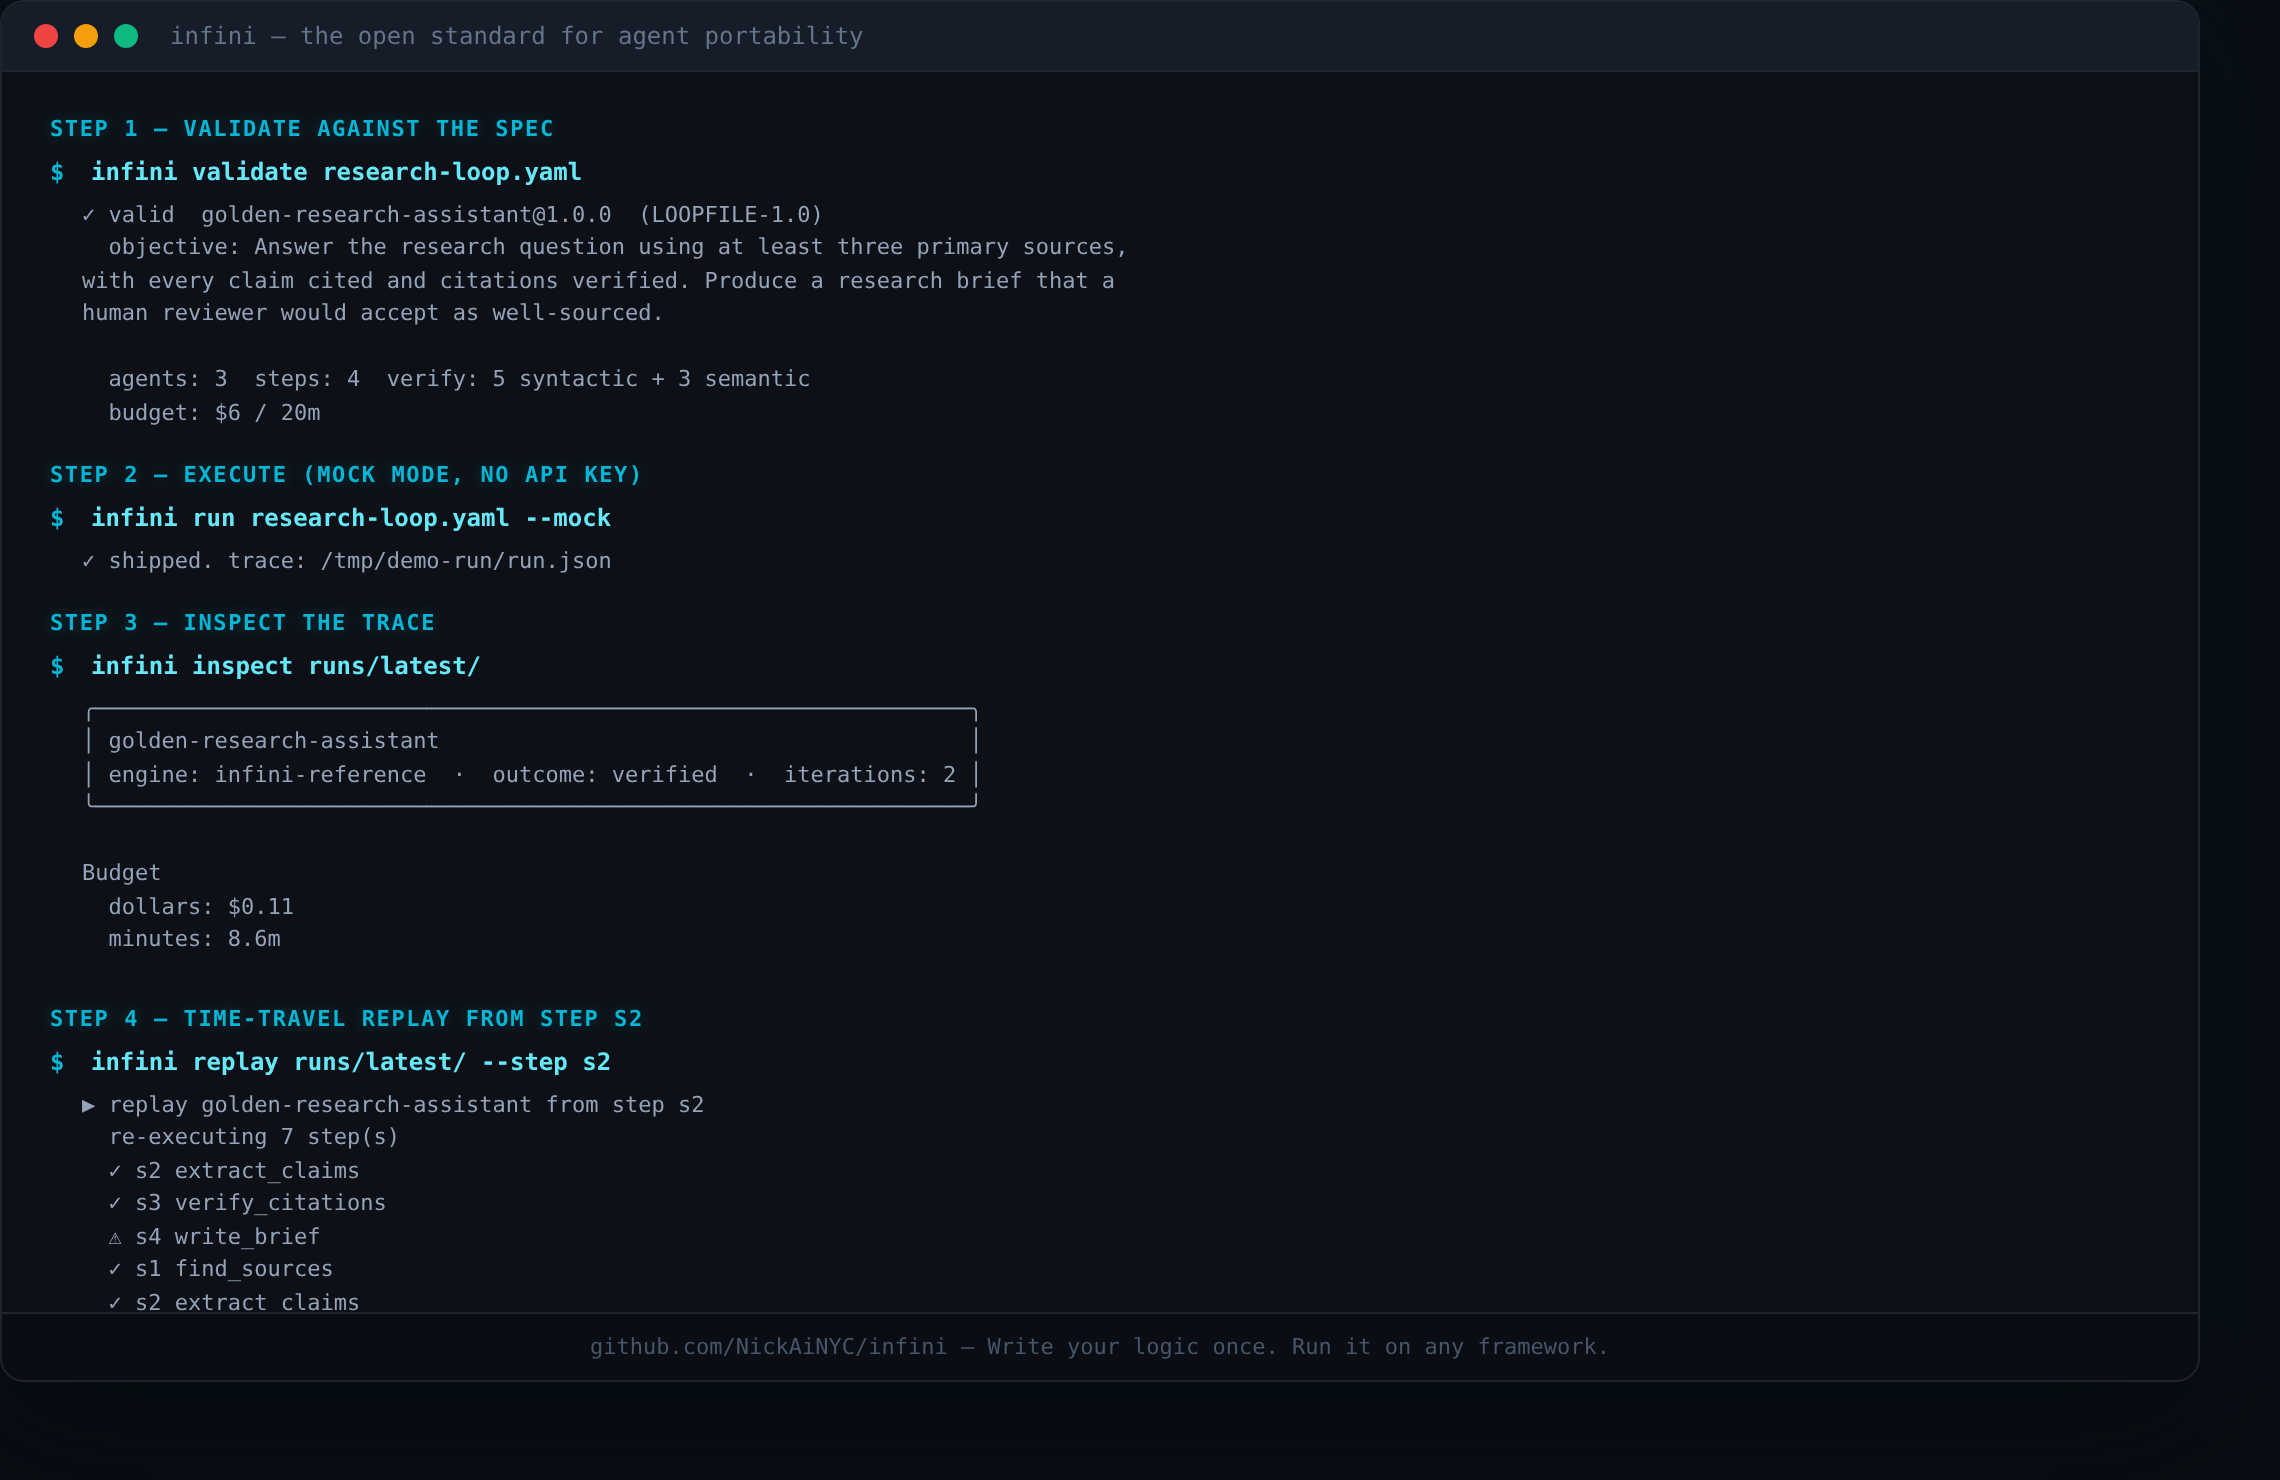
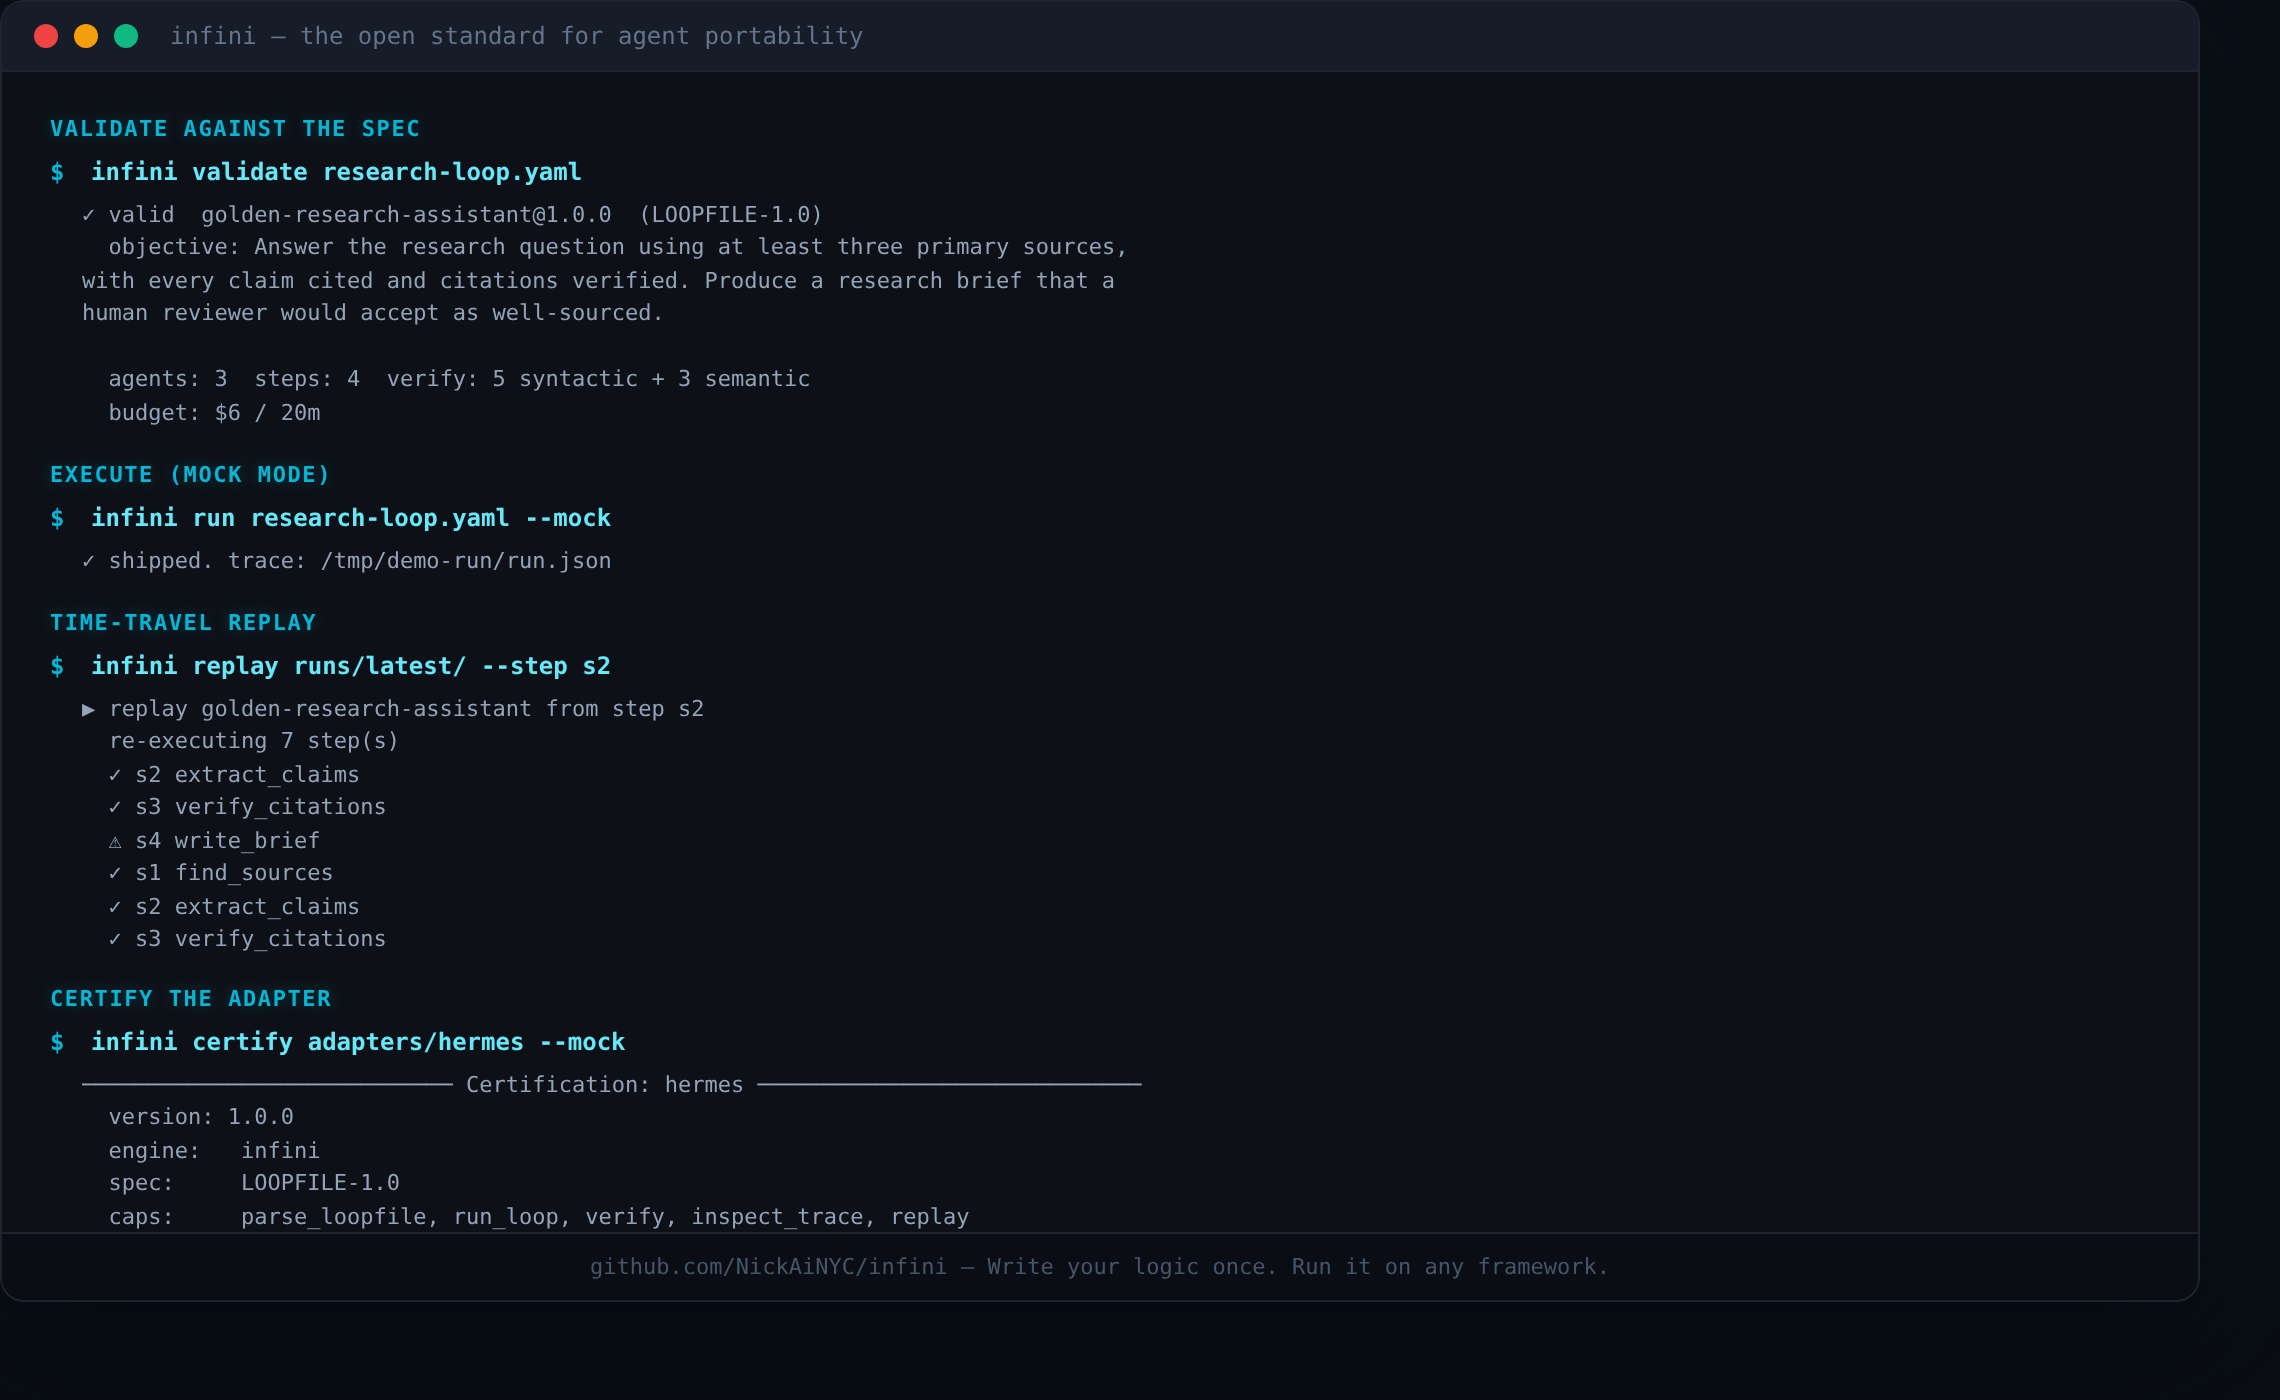
Shorten demo GIF to 13s + add positioning + Works With table
- Demo GIF: 5 frames (validate → run → replay → certify → engines),
  ~13 seconds. Dropped 'inspect' frame — the other 5 are the narrative.
- One-sentence positioning under the banner:
    Docker standardized containers.
    OpenTelemetry standardized traces.
    Terraform standardized infrastructure.
    INFINI standardizes AI agent loops.
- 'Works with' table after the GIF:
    ✅ Hermes (certified, 70.8%)
    ✅ OpenClaw (certified, 66.7%)
    ⏳ LangGraph, CrewAI, Mastra, Goose, OpenAI Agents SDK (help wanted)

The README now follows the modern GitHub formula:
  Banner → one sentence → GIF → Works With → Quickstart

diff --git a/README.md b/README.md
@@ -22,9 +22,28 @@
 
 > **Agents just got their Docker moment.**
 
+```
+Docker      standardized containers.
+OpenTelemetry standardized traces.
+Terraform   standardized infrastructure.
+INFINI      standardizes AI agent loops.
+```
+
 [Install](#install) · [Quickstart](#quickstart) · [Observatory](#the-observatory) · [Adapters](#adapters) · [Manifesto](MANIFESTO.md) · [Spec](spec/loopfile-v1.md) · [Roadmap](ROADMAP.md)
 
-<img src="assets/demo.gif" alt="INFINI Demo" width="700">
+<img src="assets/demo.gif" alt="INFINI Demo — validate, run, replay, certify" width="700">
+
+### Works with
+
+| Adapter | Status | Compatibility |
+| --- | :---: | :---: |
+| [Hermes](adapters/hermes/) | ✅ Certified | 70.8% |
+| [OpenClaw](adapters/openclaw/) | ✅ Certified | 66.7% |
+| [LangGraph](adapters/langgraph/) | ⏳ Help wanted | — |
+| [CrewAI](adapters/crewai/) | ⏳ Help wanted | — |
+| [Mastra](adapters/mastra/) | ⏳ Help wanted | — |
+| [Goose](adapters/goose/) | ⏳ Help wanted | — |
+| [OpenAI Agents SDK](adapters/codex/) | ⏳ Help wanted | — |
 
 </div>
 